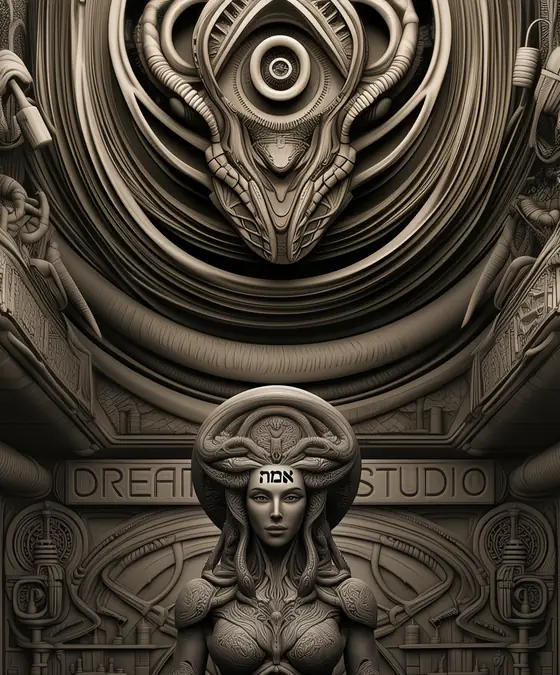
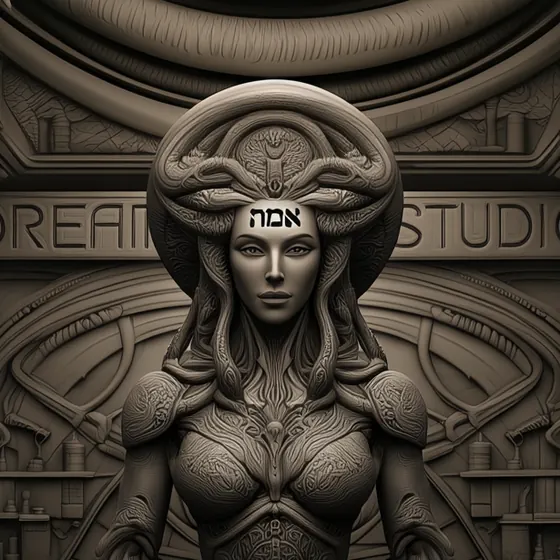
Recrop the EMET portrait onto her face and separate the social wordmark.
The hero, apple-touch icon, and social image use the face-and-shoulders square. Tiny icons crop tighter on the face and headband. The full workshop scene is unchanged.

diff --git a/site/index.html b/site/index.html
@@ -29,6 +29,7 @@
   <meta name="twitter:image:alt" content="Close view of the EMET sculpture’s face and shoulders, with the Hebrew word אמת on her headband, beside the words EMET, MCP memory server.">
 
   <link rel="icon" href="favicon.ico" sizes="any">
+  <link rel="icon" href="assets/favicon-16.png" type="image/png" sizes="16x16">
   <link rel="icon" href="assets/favicon-32.png" type="image/png" sizes="32x32">
   <link rel="icon" href="assets/icon-48.png" type="image/png" sizes="48x48">
   <link rel="apple-touch-icon" href="assets/apple-touch-icon.png">
@@ -81,10 +82,10 @@
       <img
         class="hero-photo"
         src="assets/portrait-560.webp"
-        srcset="assets/portrait-560.webp 560w, assets/portrait.webp 928w"
+        srcset="assets/portrait-560.webp 560w, assets/portrait.webp 615w"
         sizes="(max-width: 720px) 100vw, 420px"
-        width="928"
-        height="1120"
+        width="615"
+        height="615"
         alt="Close view of a sepia sculpture’s face and shoulders. The Hebrew word אמת is set across her headband."
         fetchpriority="high"
         decoding="async">

diff --git a/site/styles.css b/site/styles.css
@@ -119,7 +119,7 @@ a:hover {
   width: 40px;
   height: 40px;
   object-fit: cover;
-  object-position: center 18%;
+  object-position: center;
   border-radius: 4px;
 }
 
@@ -349,9 +349,8 @@ pre code {
   }
 
   .hero-photo {
-    height: 78vw;
-    object-fit: cover;
-    object-position: center top;
+    width: 100%;
+    height: auto;
   }
 
   .facts {
